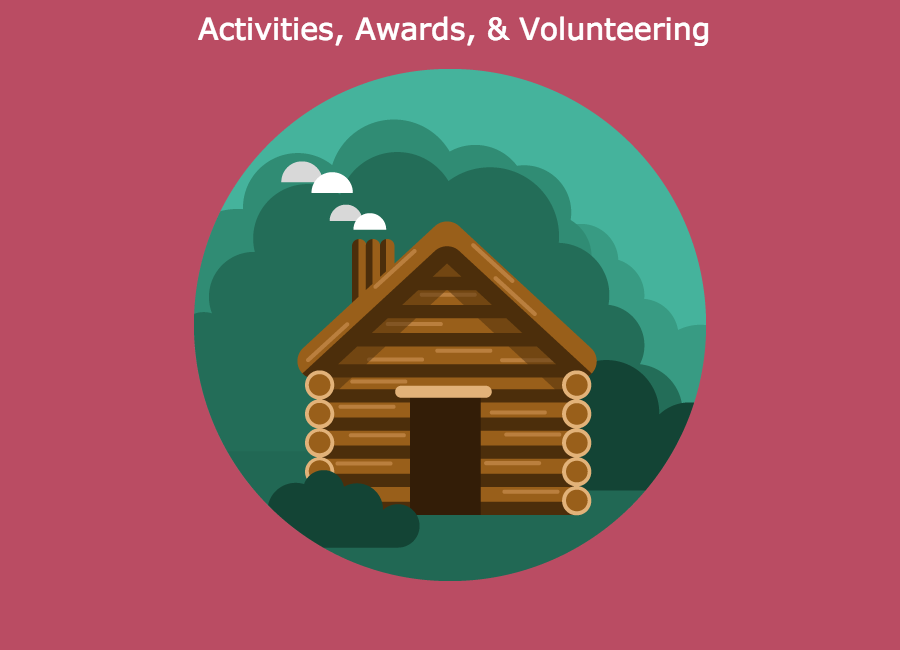
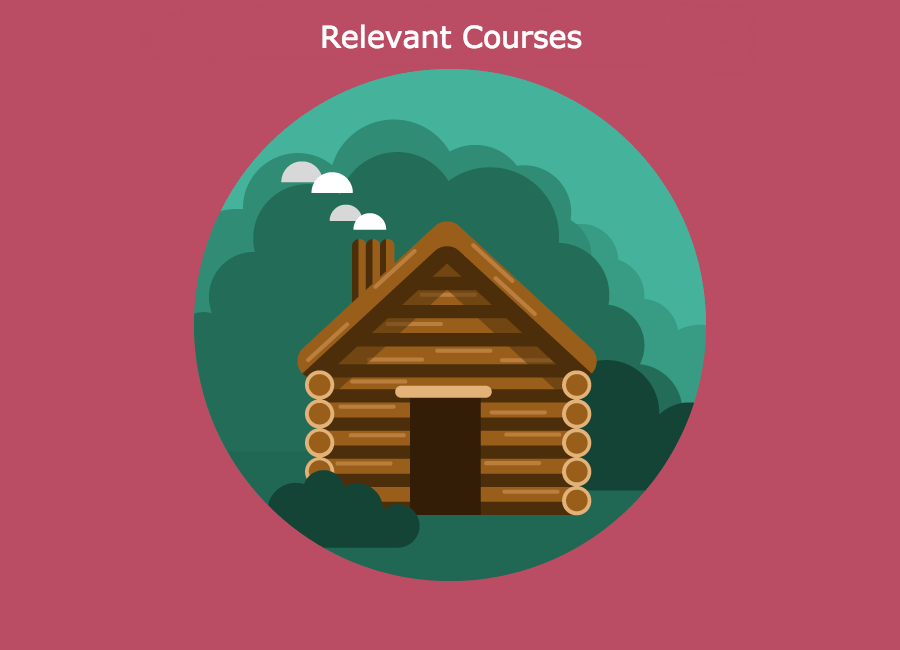
a

Changed region(s): [[0.2178, 0.0308, 0.8089, 0.0923]]

diff --git a/index.html b/index.html
@@ -251,7 +251,6 @@ _________________________________________________________ -->
 
                                     <div class="overlay">
                                         <h3 class="reference-title">Wireless Inertial Navigation System</h3>
-                                        <p>Research Project</p>
                                     </div>
                                 </a>
 
@@ -324,23 +323,19 @@ _________________________________________________________ -->
                                 </div>
                             </div>
                         </div>
-                        <div class="reference-item" data-category="seo">
+                        <div class="reference-item" data-category="hardware,software">
                             <div class="reference">
                                 <a href="#">
-                                    <img src="img/portfolio/scope.png" class="img-responsive" alt="" />
+                                    <img src="img/portfolio/cabin.png" class="img-responsive" alt="" />
                                     
                                     <div class="overlay">
-                                        <h3 class="reference-title">Electrical Equipment</h3>
-                                        <p>Short Descriptions</p>
+                                        <h3 class="reference-title">Relevant Courses</h3>
                                     </div>
                                 </a>
                                 
-                                <div class="sr-only reference-description" data-images="img/shop.jpg">
-                                    
-                                    <p>I have four years of experience using multimeters to troubleshoot and measure values in circuits. I have a thorough understanding of ohms law, op amp calculations, voltage divider calculations, and RC calculations.</p>
-                                    
-                                    <p>I have two years of experience using mixed signal oscilloscopes to trouble shoot circuits. I have a wide variety of experience with circuitry analysis with oscilloscopes ranging from analog modulation circuits to serialization circuits. During highschool, I have expereience with a scope that had a spectrum analysis feature. This allowed me to do projects and FFT analysis. But I also analyzed analog signals when I was engineering modulation circuitry. I have experience with analog sine generators and digital square wave generators as well. They have had many roles in my projects such as an input source or a sample rate. I have been working in an electronics lab for 3 years of highshcool and I have experience using power supplies with my experiments and circuits.</p>
-                                    </p>
+                                <div class="sr-only reference-description" data-images="img/waterloo.jpg">
+                                    <p>University of Waterloo<br />- Engineering Design with Embedded Systems<br />- Linear Circuits<br />- Digital Circuits and Systems<br />- Chemistry for Engineers<br />- Physics for Electrical Engineering<br />- Physics of Electrical Engineering 2<br />- Fundamentals of Programming<br />- Calculus 1 for Engineering<br />- Calculus 2 for Engineering<br />- Discrete Mathematics</p>
+                                    <p>Thomas Jefferson High School for Science and Techonology<br />- Senior MicroElectronics Research Lab<br />- Audio Electronics<br />- Advanced Microprocessor System Design<br />- Advanced Analog Electronics<br />- Advanced Digital Electronics<br />- Automation and Robotics 1 Robot Design and Prototyping<br />- Automation and Robotics 2 Microcontroller Based Systems</p>
                                 </div>
                             </div>
                         </div>
@@ -406,7 +401,25 @@ _________________________________________________________ -->
                             </div>
                         </div>
 
+                        <div class="reference-item" data-category="seo">
+                            <div class="reference">
+                                <a href="#">
+                                    <img src="img/portfolio/scope.png" class="img-responsive" alt="" />
 
+                                    <div class="overlay">
+                                        <h3 class="reference-title">Electrical Equipment</h3>
+                                    </div>
+                                </a>
+
+                                <div class="sr-only reference-description" data-images="img/shop.jpg">
+
+<p>I have four years of experience using multimeters to troubleshoot and measure values in circuits. I have a thorough understanding of ohms law, op amp calculations, voltage divider calculations, and RC calculations.</p>
+
+<p>I have two years of experience using mixed signal oscilloscopes to trouble shoot circuits. I have a wide variety of experience with circuitry analysis with oscilloscopes ranging from analog modulation circuits to serialization circuits. During highschool, I have expereience with a scope that had a spectrum analysis feature. This allowed me to do projects and FFT analysis. But I also analyzed analog signals when I was engineering modulation circuitry. I have experience with analog sine generators and digital square wave generators as well. They have had many roles in my projects such as an input source or a sample rate. I have been working in an electronics lab for 3 years of highshcool and I have experience using power supplies with my experiments and circuits.</p>
+                                    </p>
+                                </div>
+                            </div>
+                        </div>
 
                                         <!-- /#references-masonry -->
 
